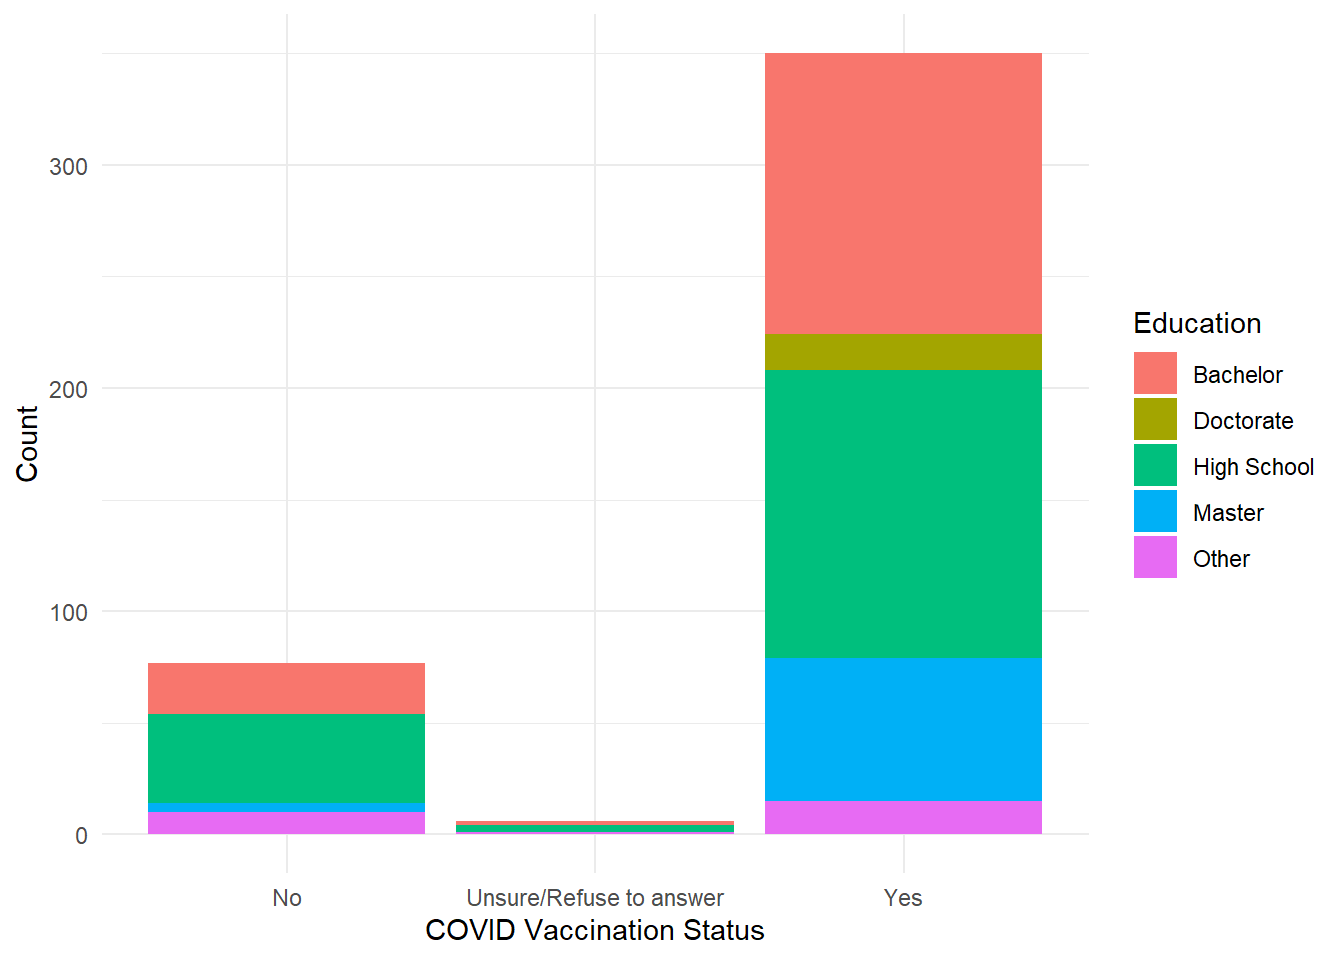
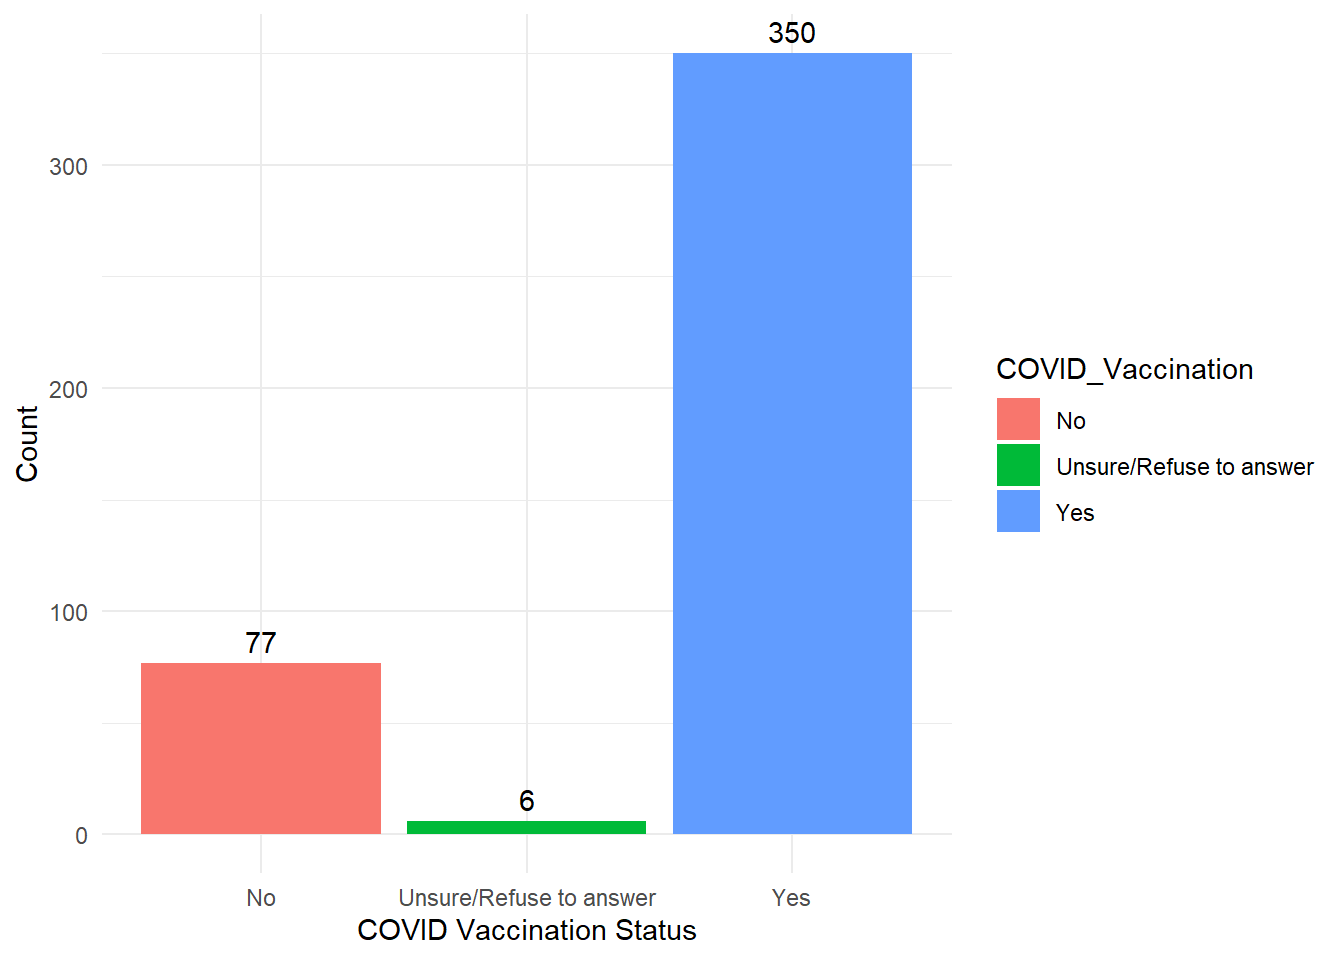
final adjustments to cleaning doc

diff --git a/analysis/1_cleaning.html b/analysis/1_cleaning.html
@@ -101,6 +101,8 @@ pre > code.sourceCode > span > a:first-child::before { text-decoration: underlin
   <li><a href="#gender" id="toc-gender" class="nav-link" data-scroll-target="#gender">Gender</a></li>
   <li><a href="#education" id="toc-education" class="nav-link" data-scroll-target="#education">Education</a></li>
   <li><a href="#covid-vaccination" id="toc-covid-vaccination" class="nav-link" data-scroll-target="#covid-vaccination">COVID Vaccination</a></li>
+  <li><a href="#self-identified-political-ideology" id="toc-self-identified-political-ideology" class="nav-link" data-scroll-target="#self-identified-political-ideology">Self-identified Political Ideology</a></li>
+  <li><a href="#age" id="toc-age" class="nav-link" data-scroll-target="#age">Age</a></li>
   </ul></li>
   <li><a href="#save" id="toc-save" class="nav-link" data-scroll-target="#save">Save</a></li>
   </ul>
@@ -793,8 +795,13 @@ suggests that the effect is positive, statistically significant, and medium
 <summary>Code</summary>
 <div class="sourceCode cell-code" id="cb35"><pre class="sourceCode r code-with-copy"><code class="sourceCode r"><span id="cb35-1"><a href="#cb35-1" aria-hidden="true" tabindex="-1"></a><span class="fu">ggplot</span>(df, <span class="fu">aes</span>(<span class="at">x =</span> Gender, <span class="at">fill =</span> Gender)) <span class="sc">+</span></span>
 <span id="cb35-2"><a href="#cb35-2" aria-hidden="true" tabindex="-1"></a>    <span class="fu">geom_bar</span>() <span class="sc">+</span></span>
-<span id="cb35-3"><a href="#cb35-3" aria-hidden="true" tabindex="-1"></a>    <span class="fu">labs</span>(<span class="at">title =</span> <span class="st">"Distribution of Gender"</span>, <span class="at">x =</span> <span class="st">"Gender"</span>, <span class="at">y =</span> <span class="st">"Count"</span>)</span></code><button title="Copy to Clipboard" class="code-copy-button"><i class="bi"></i></button></pre></div>
+<span id="cb35-3"><a href="#cb35-3" aria-hidden="true" tabindex="-1"></a>    <span class="fu">geom_text</span>(<span class="at">stat =</span> <span class="st">"count"</span>, <span class="fu">aes</span>(<span class="at">label =</span> ..count..), <span class="at">vjust =</span> <span class="sc">-</span><span class="fl">0.5</span>) <span class="sc">+</span></span>
+<span id="cb35-4"><a href="#cb35-4" aria-hidden="true" tabindex="-1"></a>    <span class="fu">labs</span>(<span class="at">title =</span> <span class="st">"Distribution of Gender"</span>, <span class="at">x =</span> <span class="st">"Gender"</span>, <span class="at">y =</span> <span class="st">"Count"</span>)</span></code><button title="Copy to Clipboard" class="code-copy-button"><i class="bi"></i></button></pre></div>
 </details>
+<div class="cell-output cell-output-stderr">
+<pre><code>Warning: The dot-dot notation (`..count..`) was deprecated in ggplot2 3.4.0.
+ℹ Please use `after_stat(count)` instead.</code></pre>
+</div>
 <div class="cell-output-display">
 <div>
 <figure class="figure">
@@ -809,13 +816,14 @@ suggests that the effect is positive, statistically significant, and medium
 <div class="cell">
 <details class="code-fold">
 <summary>Code</summary>
-<div class="sourceCode cell-code" id="cb36"><pre class="sourceCode r code-with-copy"><code class="sourceCode r"><span id="cb36-1"><a href="#cb36-1" aria-hidden="true" tabindex="-1"></a><span class="co"># Create the bar chart for Education</span></span>
-<span id="cb36-2"><a href="#cb36-2" aria-hidden="true" tabindex="-1"></a><span class="fu">ggplot</span>(df, <span class="fu">aes</span>(<span class="at">x =</span> Education, <span class="at">fill =</span> Education)) <span class="sc">+</span></span>
-<span id="cb36-3"><a href="#cb36-3" aria-hidden="true" tabindex="-1"></a>  <span class="fu">geom_bar</span>() <span class="sc">+</span></span>
-<span id="cb36-4"><a href="#cb36-4" aria-hidden="true" tabindex="-1"></a>  <span class="fu">labs</span>(<span class="at">title =</span> <span class="st">"Distribution of Education Level"</span>,</span>
-<span id="cb36-5"><a href="#cb36-5" aria-hidden="true" tabindex="-1"></a>       <span class="at">x =</span> <span class="st">"Education Level"</span>,</span>
-<span id="cb36-6"><a href="#cb36-6" aria-hidden="true" tabindex="-1"></a>       <span class="at">y =</span> <span class="st">"Count"</span>) <span class="sc">+</span></span>
-<span id="cb36-7"><a href="#cb36-7" aria-hidden="true" tabindex="-1"></a>  <span class="fu">theme_minimal</span>()  <span class="co"># Optional: Adds a minimal theme for better aesthetics</span></span></code><button title="Copy to Clipboard" class="code-copy-button"><i class="bi"></i></button></pre></div>
+<div class="sourceCode cell-code" id="cb37"><pre class="sourceCode r code-with-copy"><code class="sourceCode r"><span id="cb37-1"><a href="#cb37-1" aria-hidden="true" tabindex="-1"></a><span class="co"># Create the bar chart for Education</span></span>
+<span id="cb37-2"><a href="#cb37-2" aria-hidden="true" tabindex="-1"></a><span class="fu">ggplot</span>(df, <span class="fu">aes</span>(<span class="at">x =</span> Education, <span class="at">fill =</span> Education)) <span class="sc">+</span></span>
+<span id="cb37-3"><a href="#cb37-3" aria-hidden="true" tabindex="-1"></a>  <span class="fu">geom_bar</span>() <span class="sc">+</span></span>
+<span id="cb37-4"><a href="#cb37-4" aria-hidden="true" tabindex="-1"></a>      <span class="fu">geom_text</span>(<span class="at">stat =</span> <span class="st">"count"</span>, <span class="fu">aes</span>(<span class="at">label =</span> ..count..), <span class="at">vjust =</span> <span class="sc">-</span><span class="fl">0.5</span>) <span class="sc">+</span></span>
+<span id="cb37-5"><a href="#cb37-5" aria-hidden="true" tabindex="-1"></a>  <span class="fu">labs</span>(<span class="at">title =</span> <span class="st">"Distribution of Education Level"</span>,</span>
+<span id="cb37-6"><a href="#cb37-6" aria-hidden="true" tabindex="-1"></a>       <span class="at">x =</span> <span class="st">"Education Level"</span>,</span>
+<span id="cb37-7"><a href="#cb37-7" aria-hidden="true" tabindex="-1"></a>       <span class="at">y =</span> <span class="st">"Count"</span>) <span class="sc">+</span></span>
+<span id="cb37-8"><a href="#cb37-8" aria-hidden="true" tabindex="-1"></a>  <span class="fu">theme_minimal</span>()  <span class="co"># Optional: Adds a minimal theme for better aesthetics</span></span></code><button title="Copy to Clipboard" class="code-copy-button"><i class="bi"></i></button></pre></div>
 </details>
 <div class="cell-output-display">
 <div>
@@ -831,10 +839,11 @@ suggests that the effect is positive, statistically significant, and medium
 <div class="cell">
 <details class="code-fold">
 <summary>Code</summary>
-<div class="sourceCode cell-code" id="cb37"><pre class="sourceCode r code-with-copy"><code class="sourceCode r"><span id="cb37-1"><a href="#cb37-1" aria-hidden="true" tabindex="-1"></a><span class="fu">ggplot</span>(df, <span class="fu">aes</span>(<span class="at">x =</span> COVID_Vaccination, <span class="at">fill =</span> Education)) <span class="sc">+</span></span>
-<span id="cb37-2"><a href="#cb37-2" aria-hidden="true" tabindex="-1"></a>  <span class="fu">geom_bar</span>() <span class="sc">+</span></span>
-<span id="cb37-3"><a href="#cb37-3" aria-hidden="true" tabindex="-1"></a>  <span class="fu">labs</span>(<span class="at">x =</span> <span class="st">"COVID Vaccination Status"</span>, <span class="at">y =</span> <span class="st">"Count"</span>) <span class="sc">+</span></span>
-<span id="cb37-4"><a href="#cb37-4" aria-hidden="true" tabindex="-1"></a>  <span class="fu">theme_minimal</span>()</span></code><button title="Copy to Clipboard" class="code-copy-button"><i class="bi"></i></button></pre></div>
+<div class="sourceCode cell-code" id="cb38"><pre class="sourceCode r code-with-copy"><code class="sourceCode r"><span id="cb38-1"><a href="#cb38-1" aria-hidden="true" tabindex="-1"></a><span class="fu">ggplot</span>(df, <span class="fu">aes</span>(<span class="at">x =</span> COVID_Vaccination, <span class="at">fill=</span> COVID_Vaccination)) <span class="sc">+</span></span>
+<span id="cb38-2"><a href="#cb38-2" aria-hidden="true" tabindex="-1"></a>  <span class="fu">geom_bar</span>() <span class="sc">+</span></span>
+<span id="cb38-3"><a href="#cb38-3" aria-hidden="true" tabindex="-1"></a>  <span class="fu">geom_text</span>(<span class="at">stat =</span> <span class="st">"count"</span>, <span class="fu">aes</span>(<span class="at">label =</span> ..count..), <span class="at">vjust =</span> <span class="sc">-</span><span class="fl">0.5</span>) <span class="sc">+</span></span>
+<span id="cb38-4"><a href="#cb38-4" aria-hidden="true" tabindex="-1"></a>  <span class="fu">labs</span>(<span class="at">x =</span> <span class="st">"COVID Vaccination Status"</span>, <span class="at">y =</span> <span class="st">"Count"</span>) <span class="sc">+</span></span>
+<span id="cb38-5"><a href="#cb38-5" aria-hidden="true" tabindex="-1"></a>  <span class="fu">theme_minimal</span>()</span></code><button title="Copy to Clipboard" class="code-copy-button"><i class="bi"></i></button></pre></div>
 </details>
 <div class="cell-output-display">
 <div>
@@ -845,8 +854,66 @@ suggests that the effect is positive, statistically significant, and medium
 </div>
 <details class="code-fold">
 <summary>Code</summary>
-<div class="sourceCode cell-code" id="cb38"><pre class="sourceCode r code-with-copy"><code class="sourceCode r"><span id="cb38-1"><a href="#cb38-1" aria-hidden="true" tabindex="-1"></a>df<span class="sc">$</span>COVID_Vaccination <span class="ot">&lt;-</span> <span class="fu">ifelse</span>(<span class="sc">!</span>df<span class="sc">$</span>COVID_Vaccination <span class="sc">%in%</span> <span class="fu">c</span>(<span class="st">"Yes"</span>, <span class="st">"No"</span>), <span class="cn">NA</span>, df<span class="sc">$</span>COVID_Vaccination) </span></code><button title="Copy to Clipboard" class="code-copy-button"><i class="bi"></i></button></pre></div>
+<div class="sourceCode cell-code" id="cb39"><pre class="sourceCode r code-with-copy"><code class="sourceCode r"><span id="cb39-1"><a href="#cb39-1" aria-hidden="true" tabindex="-1"></a>df<span class="sc">$</span>COVID_Vaccination <span class="ot">&lt;-</span> <span class="fu">ifelse</span>(<span class="sc">!</span>df<span class="sc">$</span>COVID_Vaccination <span class="sc">%in%</span> <span class="fu">c</span>(<span class="st">"Yes"</span>, <span class="st">"No"</span>), <span class="cn">NA</span>, df<span class="sc">$</span>COVID_Vaccination) </span></code><button title="Copy to Clipboard" class="code-copy-button"><i class="bi"></i></button></pre></div>
 </details>
+</div>
+</section>
+<section id="self-identified-political-ideology" class="level3">
+<h3 class="anchored" data-anchor-id="self-identified-political-ideology">Self-identified Political Ideology</h3>
+<div class="cell">
+<details class="code-fold">
+<summary>Code</summary>
+<div class="sourceCode cell-code" id="cb40"><pre class="sourceCode r code-with-copy"><code class="sourceCode r"><span id="cb40-1"><a href="#cb40-1" aria-hidden="true" tabindex="-1"></a><span class="fu">ggplot</span>(df, <span class="fu">aes</span>(<span class="at">x =</span> Political_Ideology, <span class="at">fill =</span> Political_Ideology)) <span class="sc">+</span></span>
+<span id="cb40-2"><a href="#cb40-2" aria-hidden="true" tabindex="-1"></a>  <span class="fu">geom_bar</span>() <span class="sc">+</span></span>
+<span id="cb40-3"><a href="#cb40-3" aria-hidden="true" tabindex="-1"></a>  <span class="fu">labs</span>(<span class="at">x =</span> <span class="st">"Political Ideology"</span>, <span class="at">y =</span> <span class="st">"Count"</span>) <span class="sc">+</span></span>
+<span id="cb40-4"><a href="#cb40-4" aria-hidden="true" tabindex="-1"></a>  <span class="fu">theme_minimal</span>()</span></code><button title="Copy to Clipboard" class="code-copy-button"><i class="bi"></i></button></pre></div>
+</details>
+<div class="cell-output-display">
+<div>
+<figure class="figure">
+<p><img src="1_cleaning_files/figure-html/unnamed-chunk-25-1.png" class="img-fluid figure-img" width="672"></p>
+</figure>
+</div>
+</div>
+</div>
+</section>
+<section id="age" class="level3">
+<h3 class="anchored" data-anchor-id="age">Age</h3>
+<div class="cell">
+<details class="code-fold">
+<summary>Code</summary>
+<div class="sourceCode cell-code" id="cb41"><pre class="sourceCode r code-with-copy"><code class="sourceCode r"><span id="cb41-1"><a href="#cb41-1" aria-hidden="true" tabindex="-1"></a><span class="fu">ggplot</span>(df, <span class="fu">aes</span>(<span class="at">x =</span> Age)) <span class="sc">+</span></span>
+<span id="cb41-2"><a href="#cb41-2" aria-hidden="true" tabindex="-1"></a>  <span class="fu">geom_bar</span>() <span class="sc">+</span></span>
+<span id="cb41-3"><a href="#cb41-3" aria-hidden="true" tabindex="-1"></a>  <span class="fu">labs</span>(<span class="at">x =</span> <span class="st">"Age"</span>, <span class="at">y =</span> <span class="st">"Count"</span>) <span class="sc">+</span></span>
+<span id="cb41-4"><a href="#cb41-4" aria-hidden="true" tabindex="-1"></a>  <span class="fu">theme_minimal</span>()</span></code><button title="Copy to Clipboard" class="code-copy-button"><i class="bi"></i></button></pre></div>
+</details>
+<div class="cell-output cell-output-stderr">
+<pre><code>Warning: Removed 2 rows containing non-finite outside the scale range
+(`stat_count()`).</code></pre>
+</div>
+<div class="cell-output-display">
+<div>
+<figure class="figure">
+<p><img src="1_cleaning_files/figure-html/unnamed-chunk-26-1.png" class="img-fluid figure-img" width="672"></p>
+</figure>
+</div>
+</div>
+<details class="code-fold">
+<summary>Code</summary>
+<div class="sourceCode cell-code" id="cb43"><pre class="sourceCode r code-with-copy"><code class="sourceCode r"><span id="cb43-1"><a href="#cb43-1" aria-hidden="true" tabindex="-1"></a>summary_stats <span class="ot">&lt;-</span> df <span class="sc">%&gt;%</span></span>
+<span id="cb43-2"><a href="#cb43-2" aria-hidden="true" tabindex="-1"></a>  <span class="fu">summarise</span>(<span class="fu">across</span>(<span class="fu">c</span>(Age), </span>
+<span id="cb43-3"><a href="#cb43-3" aria-hidden="true" tabindex="-1"></a>                   <span class="fu">list</span>(<span class="at">mean =</span> <span class="sc">~</span><span class="fu">mean</span>(.x, <span class="at">na.rm =</span> <span class="cn">TRUE</span>),</span>
+<span id="cb43-4"><a href="#cb43-4" aria-hidden="true" tabindex="-1"></a>                        <span class="at">median =</span> <span class="sc">~</span><span class="fu">median</span>(.x, <span class="at">na.rm =</span> <span class="cn">TRUE</span>),</span>
+<span id="cb43-5"><a href="#cb43-5" aria-hidden="true" tabindex="-1"></a>                        <span class="at">sd =</span> <span class="sc">~</span><span class="fu">sd</span>(.x, <span class="at">na.rm =</span> <span class="cn">TRUE</span>))))</span>
+<span id="cb43-6"><a href="#cb43-6" aria-hidden="true" tabindex="-1"></a></span>
+<span id="cb43-7"><a href="#cb43-7" aria-hidden="true" tabindex="-1"></a><span class="fu">print</span>(summary_stats)</span></code><button title="Copy to Clipboard" class="code-copy-button"><i class="bi"></i></button></pre></div>
+</details>
+<div class="cell-output cell-output-stdout">
+<pre><code># A tibble: 1 × 3
+  Age_mean Age_median Age_sd
+     &lt;dbl&gt;      &lt;int&gt;  &lt;dbl&gt;
+1     42.5         41   16.6</code></pre>
+</div>
 </div>
 </section>
 </section>
@@ -855,9 +922,9 @@ suggests that the effect is positive, statistically significant, and medium
 <div class="cell">
 <details class="code-fold">
 <summary>Code</summary>
-<div class="sourceCode cell-code" id="cb39"><pre class="sourceCode r code-with-copy"><code class="sourceCode r"><span id="cb39-1"><a href="#cb39-1" aria-hidden="true" tabindex="-1"></a><span class="fu">write.csv</span>(df, <span class="st">"../data/data_participants.csv"</span>, <span class="at">row.names =</span> <span class="cn">FALSE</span>)</span>
-<span id="cb39-2"><a href="#cb39-2" aria-hidden="true" tabindex="-1"></a><span class="fu">write.csv</span>(dfmist, <span class="st">"../data/data_mist.csv"</span>, <span class="at">row.names =</span> <span class="cn">FALSE</span>)</span>
-<span id="cb39-3"><a href="#cb39-3" aria-hidden="true" tabindex="-1"></a><span class="fu">write.csv</span>(dfmocri, <span class="st">"../data/data_mocri.csv"</span>, <span class="at">row.names =</span> <span class="cn">FALSE</span>)</span></code><button title="Copy to Clipboard" class="code-copy-button"><i class="bi"></i></button></pre></div>
+<div class="sourceCode cell-code" id="cb45"><pre class="sourceCode r code-with-copy"><code class="sourceCode r"><span id="cb45-1"><a href="#cb45-1" aria-hidden="true" tabindex="-1"></a><span class="fu">write.csv</span>(df, <span class="st">"../data/data_participants.csv"</span>, <span class="at">row.names =</span> <span class="cn">FALSE</span>)</span>
+<span id="cb45-2"><a href="#cb45-2" aria-hidden="true" tabindex="-1"></a><span class="fu">write.csv</span>(dfmist, <span class="st">"../data/data_mist.csv"</span>, <span class="at">row.names =</span> <span class="cn">FALSE</span>)</span>
+<span id="cb45-3"><a href="#cb45-3" aria-hidden="true" tabindex="-1"></a><span class="fu">write.csv</span>(dfmocri, <span class="st">"../data/data_mocri.csv"</span>, <span class="at">row.names =</span> <span class="cn">FALSE</span>)</span></code><button title="Copy to Clipboard" class="code-copy-button"><i class="bi"></i></button></pre></div>
 </details>
 </div>
 </section>
